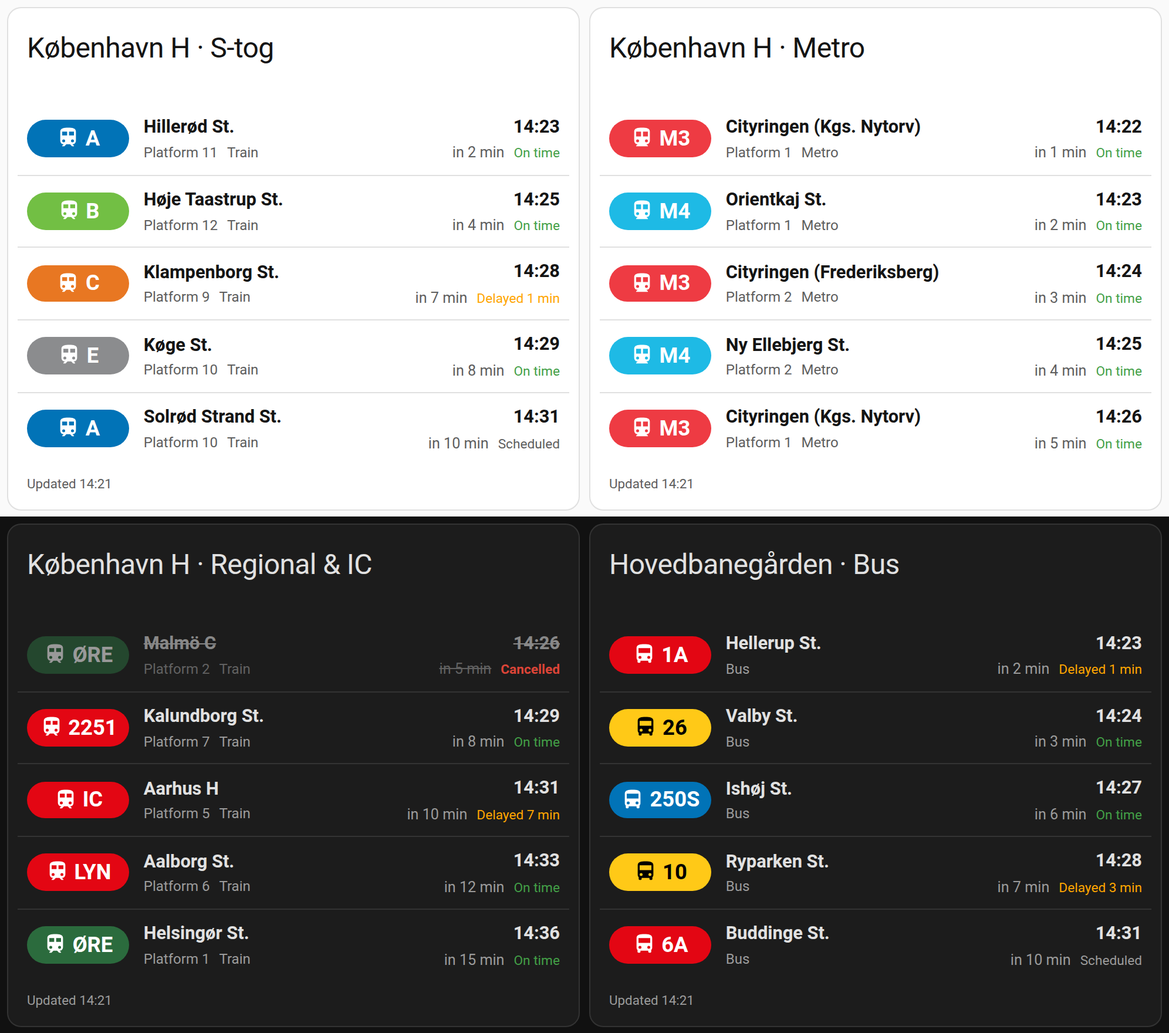
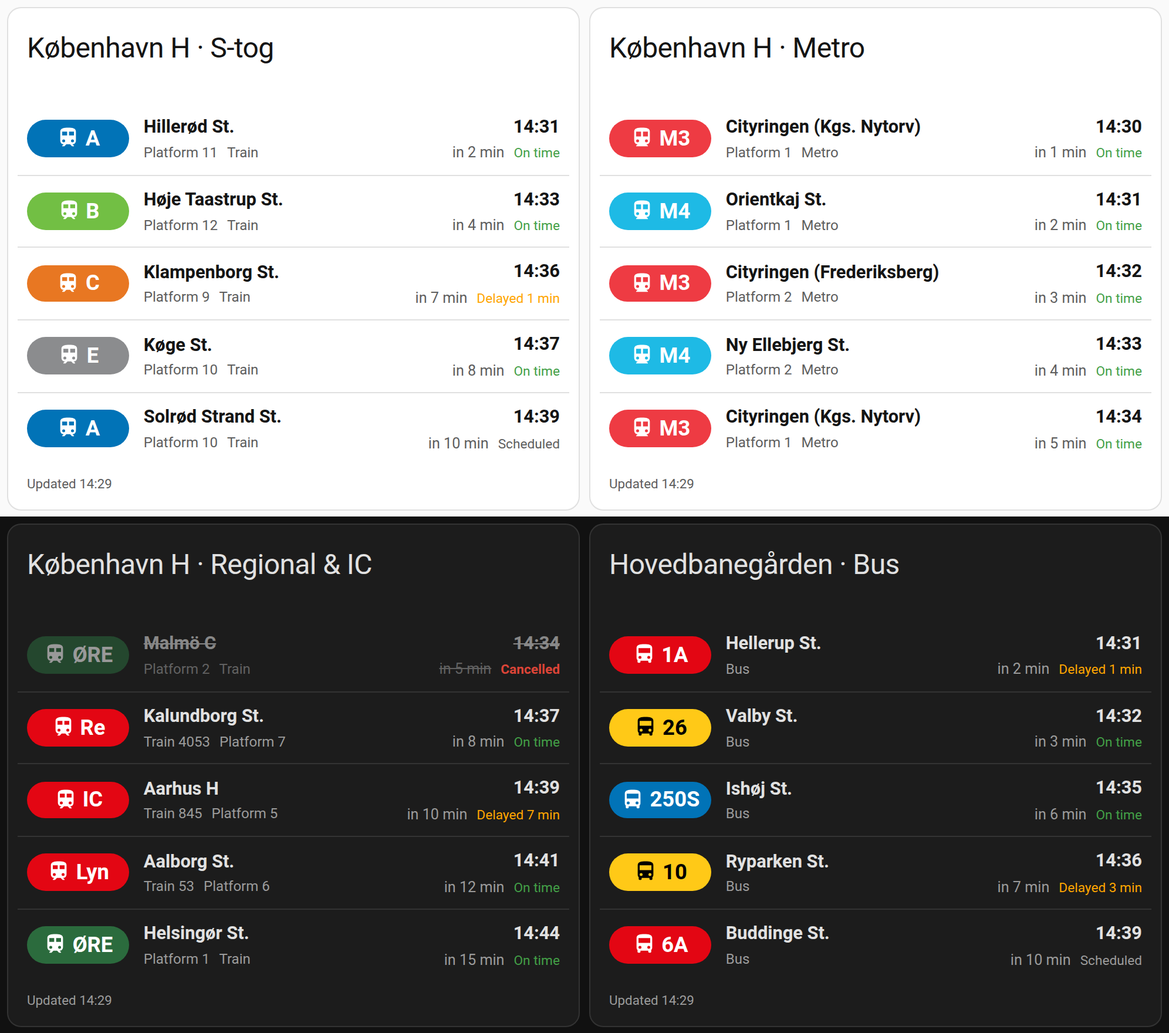
feat: show train category in badge and train number in info line
Regional and long-distance trains carry a train number instead of a line
(flagged by the API with lineHidden). Show the category (Re, IC, Lyn) in the
badge and "Train 52257" next to the platform, so stopping and fast services
can be told apart. Departures without the flag (S-tog, metro, buses) are
unchanged; tests cover both. Re now gets DSB red like IC and Lyn.

diff --git a/dist/rejseplanen-timetable-card.js b/dist/rejseplanen-timetable-card.js
@@ -42,7 +42,7 @@ super(...arguments),this.renderOptions={host:this},this._$Do=void 0}createRender
 * @license
 * Copyright 2017 Google LLC
 * SPDX-License-Identifier: BSD-3-Clause
-*/function Te(e){return we({...e,state:!0,attribute:!1})}var W={card:{title:`Rejseplanen Timetable`},error:{entity_not_found:`Entity not found: {entity}`,xml_format:`The sensor returns XML data. Add format=json to the Rejseplanen API URL.`},empty:{no_upcoming:`No upcoming departures`},label:{platform:`Platform {platform}`,stand:`Stand {platform}`,bay:`Bay {platform}`,now:`Now`,in_minutes:`in {minutes} min`,updated:`Updated {time}`,mode_bus:`Bus`,mode_metro:`Metro`,mode_train:`Train`,mode_tram:`Tram`,mode_taxi:`Taxi`,mode_boat:`Boat`},status:{cancelled:`Cancelled`,delayed:`Delayed {minutes} min`,on_time:`On time`,scheduled:`Scheduled`},editor:{sensor_entity:`Sensor entity`,show_heading:`Show heading (friendly name)`,max_items:`Max items`,section_general:`Card options`,help_sensor:`Select the Rejseplanen REST sensor (with a Departure attribute).`,help_show_heading:`Show the sensor's friendly name as the card heading.`,help_max_items:`Maximum number of departures to display.`}},Ee={da:{card:{title:`Rejseplanen Afgangstavle`},error:{entity_not_found:`Entitet ikke fundet: {entity}`,xml_format:`Sensoren returnerer XML-data. Tilføj format=json til Rejseplanen API-URL'en.`},empty:{no_upcoming:`Ingen kommende afgange`},label:{platform:`Perron {platform}`,stand:`Stoppested {platform}`,bay:`Kaj {platform}`,now:`Nu`,in_minutes:`om {minutes} min`,updated:`Opdateret {time}`,mode_bus:`Bus`,mode_metro:`Metro`,mode_train:`Tog`,mode_tram:`Letbane`,mode_taxi:`Taxa`,mode_boat:`Færge`},status:{cancelled:`Aflyst`,delayed:`Forsinket {minutes} min`,on_time:`Til tiden`,scheduled:`Planlagt`},editor:{sensor_entity:`Sensor entitet`,show_heading:`Vis overskrift (venligt navn)`,max_items:`Maks. antal`,section_general:`Kort indstillinger`,help_sensor:`Vælg Rejseplanen REST-sensoren (med attributten Departure).`,help_show_heading:`Vis sensorens venlige navn som kortets overskrift.`,help_max_items:`Maksimalt antal afgange der skal vises.`}},sv:{card:{title:`Rejseplanen Tidtabell`},error:{entity_not_found:`Enheten hittades inte: {entity}`,xml_format:`Sensorn returnerar XML-data. Lägg till format=json i Rejseplanen API-URL:en.`},empty:{no_upcoming:`Inga kommande avgångar`},label:{platform:`Plattform {platform}`,stand:`Läge {platform}`,bay:`Brygga {platform}`,now:`Nu`,in_minutes:`om {minutes} min`,updated:`Uppdaterad {time}`,mode_bus:`Buss`,mode_metro:`T-bana`,mode_train:`Tåg`,mode_tram:`Spårvagn`,mode_taxi:`Taxi`,mode_boat:`Båt`},status:{cancelled:`Inställd`,delayed:`Försenad {minutes} min`,on_time:`I tid`,scheduled:`Planerad`},editor:{sensor_entity:`Sensornamn`,show_heading:`Visa rubrik (visningsnamn)`,max_items:`Max antal`,section_general:`Kortalternativ`,help_sensor:`Välj Rejseplanen REST-sensorn (med attributet Departure).`,help_show_heading:`Visa sensorns visningsnamn som kortets rubrik.`,help_max_items:`Maximalt antal avgångar att visa.`}},en:W};function De(e,t){let n=t.split(`.`).reduce((e,t)=>e?e[t]:void 0,e);return typeof n==`string`?n:void 0}function Oe(e,t,n){let r=De(Ee[String(e?.locale?.language||e?.language||`en`).toLowerCase().slice(0,2)]??W,t)??De(W,t)??t;return n?Object.entries(n).reduce((e,[t,n])=>e.split(`{${t}}`).join(String(n)),r):r}function G(e,t,n,r){var i=arguments.length,a=i<3?t:r===null?r=Object.getOwnPropertyDescriptor(t,n):r,o;if(typeof Reflect==`object`&&typeof Reflect.decorate==`function`)a=Reflect.decorate(e,t,n,r);else for(var s=e.length-1;s>=0;s--)(o=e[s])&&(a=(i<3?o(a):i>3?o(t,n,a):o(t,n))||a);return i>3&&a&&Object.defineProperty(t,n,a),a}var ke,K=class extends U{setConfig(e){this._config={show_name:!0,max_items:5,...e}}_valueChanged(e){this._config||(this._config={type:`rejseplanen-timetable-card`,entity:``,show_name:!0,max_items:5});let t=e.currentTarget,n=e.detail,r={...this._config},i=t?.configValue??t?.dataset?.configValue;if(i){let e=n?.value??t.value??t.checked;if(t.type===`number`||t.inputMode===`numeric`||i===`max_items`){let t=Number(e);Number.isNaN(t)||(e=t)}t.type===`checkbox`?r[i]=t.checked:e!==void 0&&(r[i]=e)}JSON.stringify(r)!==JSON.stringify(this._config)&&(this._config=r,this.dispatchEvent(new CustomEvent(`config-changed`,{detail:{config:r}})))}render(){let e=(e,t)=>Oe(this.hass,e,t),t=!!customElements.get(`ha-entity-picker`)&&!!this.hass,n=!!customElements.get(`ha-switch`),r=!!customElements.get(`ha-textfield`),i=!!customElements.get(`ha-form`),a={entity:this._config?.entity??``,show_name:this._config?.show_name!==!1,max_items:this._config?.max_items??5};if(i){let t=[{name:`entity`,selector:{entity:{domain:`sensor`}}},{name:`show_name`,selector:{boolean:{}}},{name:`max_items`,selector:{number:{min:1,max:20,mode:`box`}}}],n={entity:a.entity,show_name:a.show_name,max_items:a.max_items};return N`
+*/function Te(e){return we({...e,state:!0,attribute:!1})}var W={card:{title:`Rejseplanen Timetable`},error:{entity_not_found:`Entity not found: {entity}`,xml_format:`The sensor returns XML data. Add format=json to the Rejseplanen API URL.`},empty:{no_upcoming:`No upcoming departures`},label:{platform:`Platform {platform}`,stand:`Stand {platform}`,bay:`Bay {platform}`,now:`Now`,in_minutes:`in {minutes} min`,updated:`Updated {time}`,mode_bus:`Bus`,mode_metro:`Metro`,mode_train:`Train`,mode_tram:`Tram`,mode_taxi:`Taxi`,mode_boat:`Boat`,train_number:`Train {number}`},status:{cancelled:`Cancelled`,delayed:`Delayed {minutes} min`,on_time:`On time`,scheduled:`Scheduled`},editor:{sensor_entity:`Sensor entity`,show_heading:`Show heading (friendly name)`,max_items:`Max items`,section_general:`Card options`,help_sensor:`Select the Rejseplanen REST sensor (with a Departure attribute).`,help_show_heading:`Show the sensor's friendly name as the card heading.`,help_max_items:`Maximum number of departures to display.`}},Ee={da:{card:{title:`Rejseplanen Afgangstavle`},error:{entity_not_found:`Entitet ikke fundet: {entity}`,xml_format:`Sensoren returnerer XML-data. Tilføj format=json til Rejseplanen API-URL'en.`},empty:{no_upcoming:`Ingen kommende afgange`},label:{platform:`Perron {platform}`,stand:`Stoppested {platform}`,bay:`Kaj {platform}`,now:`Nu`,in_minutes:`om {minutes} min`,updated:`Opdateret {time}`,mode_bus:`Bus`,mode_metro:`Metro`,mode_train:`Tog`,mode_tram:`Letbane`,mode_taxi:`Taxa`,mode_boat:`Færge`,train_number:`Tog {number}`},status:{cancelled:`Aflyst`,delayed:`Forsinket {minutes} min`,on_time:`Til tiden`,scheduled:`Planlagt`},editor:{sensor_entity:`Sensor entitet`,show_heading:`Vis overskrift (venligt navn)`,max_items:`Maks. antal`,section_general:`Kort indstillinger`,help_sensor:`Vælg Rejseplanen REST-sensoren (med attributten Departure).`,help_show_heading:`Vis sensorens venlige navn som kortets overskrift.`,help_max_items:`Maksimalt antal afgange der skal vises.`}},sv:{card:{title:`Rejseplanen Tidtabell`},error:{entity_not_found:`Enheten hittades inte: {entity}`,xml_format:`Sensorn returnerar XML-data. Lägg till format=json i Rejseplanen API-URL:en.`},empty:{no_upcoming:`Inga kommande avgångar`},label:{platform:`Plattform {platform}`,stand:`Läge {platform}`,bay:`Brygga {platform}`,now:`Nu`,in_minutes:`om {minutes} min`,updated:`Uppdaterad {time}`,mode_bus:`Buss`,mode_metro:`T-bana`,mode_train:`Tåg`,mode_tram:`Spårvagn`,mode_taxi:`Taxi`,mode_boat:`Båt`,train_number:`Tåg {number}`},status:{cancelled:`Inställd`,delayed:`Försenad {minutes} min`,on_time:`I tid`,scheduled:`Planerad`},editor:{sensor_entity:`Sensornamn`,show_heading:`Visa rubrik (visningsnamn)`,max_items:`Max antal`,section_general:`Kortalternativ`,help_sensor:`Välj Rejseplanen REST-sensorn (med attributet Departure).`,help_show_heading:`Visa sensorns visningsnamn som kortets rubrik.`,help_max_items:`Maximalt antal avgångar att visa.`}},en:W};function De(e,t){let n=t.split(`.`).reduce((e,t)=>e?e[t]:void 0,e);return typeof n==`string`?n:void 0}function Oe(e,t,n){let r=De(Ee[String(e?.locale?.language||e?.language||`en`).toLowerCase().slice(0,2)]??W,t)??De(W,t)??t;return n?Object.entries(n).reduce((e,[t,n])=>e.split(`{${t}}`).join(String(n)),r):r}function G(e,t,n,r){var i=arguments.length,a=i<3?t:r===null?r=Object.getOwnPropertyDescriptor(t,n):r,o;if(typeof Reflect==`object`&&typeof Reflect.decorate==`function`)a=Reflect.decorate(e,t,n,r);else for(var s=e.length-1;s>=0;s--)(o=e[s])&&(a=(i<3?o(a):i>3?o(t,n,a):o(t,n))||a);return i>3&&a&&Object.defineProperty(t,n,a),a}var ke,K=class extends U{setConfig(e){this._config={show_name:!0,max_items:5,...e}}_valueChanged(e){this._config||(this._config={type:`rejseplanen-timetable-card`,entity:``,show_name:!0,max_items:5});let t=e.currentTarget,n=e.detail,r={...this._config},i=t?.configValue??t?.dataset?.configValue;if(i){let e=n?.value??t.value??t.checked;if(t.type===`number`||t.inputMode===`numeric`||i===`max_items`){let t=Number(e);Number.isNaN(t)||(e=t)}t.type===`checkbox`?r[i]=t.checked:e!==void 0&&(r[i]=e)}JSON.stringify(r)!==JSON.stringify(this._config)&&(this._config=r,this.dispatchEvent(new CustomEvent(`config-changed`,{detail:{config:r}})))}render(){let e=(e,t)=>Oe(this.hass,e,t),t=!!customElements.get(`ha-entity-picker`)&&!!this.hass,n=!!customElements.get(`ha-switch`),r=!!customElements.get(`ha-textfield`),i=!!customElements.get(`ha-form`),a={entity:this._config?.entity??``,show_name:this._config?.show_name!==!1,max_items:this._config?.max_items??5};if(i){let t=[{name:`entity`,selector:{entity:{domain:`sensor`}}},{name:`show_name`,selector:{boolean:{}}},{name:`max_items`,selector:{number:{min:1,max:20,mode:`box`}}}],n={entity:a.entity,show_name:a.show_name,max_items:a.max_items};return N`
         <ha-form
           .hass=${this.hass}
           .data=${n}
@@ -105,9 +105,9 @@ super(...arguments),this.renderOptions={host:this},this._$Do=void 0}createRender
   .card-config { display: grid; gap: 16px; }
   .lbl { display: grid; gap: 6px; font: inherit; color: var(--primary-text-color); }
   input[type="text"], input[type="number"] { padding: 8px; border-radius: 6px; border: 1px solid var(--divider-color); width: 100%; background: var(--card-background-color); color: var(--primary-text-color); }
-  `,G([we({attribute:!1})],K.prototype,`hass`,void 0),G([Te()],K.prototype,`_config`,void 0),customElements.get(`rejseplanen-timetable-card-editor`)||customElements.define(`rejseplanen-timetable-card-editor`,K);function Ae(e,t){if(!e||!t)return;let n=/^(\d{4})-(\d{2})-(\d{2})$/.exec(e),r=/^(\d{2}):(\d{2})(?::(\d{2}))?$/.exec(t);if(n&&r)return new Date(+n[1],n[2]-1,+n[3],+r[1],+r[2],r[3]?+r[3]:0)}function je(e,t){let n=e=>(parseInt(e.substring(0,2))||0)*60+(parseInt(e.substring(3,5))||0),r=n(t)-n(e);return r<-720&&(r+=1440),r>720&&(r-=1440),r}function q(e){return e.toString().padStart(2,`0`)}function Me(e){let t=(e?.catOut||``).toString(),n=(e?.catOutL||``).toString(),r=(e?.icon?.res||``).toString(),i=t.toUpperCase();return t===`MET`||n.includes(`Metro`)||r===`prod_sub`?`metro`:n.includes(`Tog`)||n.includes(`Train`)||t.includes(`S-Tog`)||n.includes(`Lokalbane`)||n.includes(`Regional`)||n.includes(`InterCity`)||[`S`,`RE`,`REG`,`IC`,`ICL`,`LYN`,`LOK`,`ØRE`].includes(i)||[`prod_comm`,`prod_reg`,`prod_long`,`prod_loc`,`prod_ic`].includes(r)?`train`:n.includes(`Tram`)||n.includes(`Letbane`)||r===`prod_tram`?`tram`:n.includes(`Ferry`)||n.includes(`Boat`)||n.includes(`Færge`)||r===`prod_ship`?`boat`:`bus`}function Ne(e){return!!(e.rtTime||e.prognosisType||e.rtTrack||e.rtPlatform)}function Pe(e,t=new Date){if(!e)return null;let n=e.ProductAtStop||{},r=(e.time||``).toString(),i=(e.rtTime||``).toString(),a=i||r,o=Ae(e.date,r),s=i?Ae(e.rtDate||e.date,i):void 0,c=s??o,l=new Date(t);l.setSeconds(0,0);let u=null;c?u=Math.floor((c.getTime()-l.getTime())/6e4):a&&(u=je(`${q(t.getHours())}:${q(t.getMinutes())}`,a));let d=0;o&&s?d=Math.round((s.getTime()-o.getTime())/6e4):r&&i&&(d=je(r,i));let f=``;e.rtTrack?f=e.rtTrack.toString():e.track?f=e.track.toString():e.rtPlatform?.text?f=e.rtPlatform.text.toString():e.platform?.text&&(f=e.platform.text.toString());let p=r.substring(0,5),m=i?i.substring(0,5):p;return{line:n.displayNumber||e.name||``,destination:e.direction||``,scheduled_time:p,expected_time:m,time_formatted:m,minutes_until:u,transport_mode:Me(n),real_time:Ne(e),delay_minutes:d,canceled:e.cancelled===!0||e.cancelled===`true`,platform:f,station:e.stop||``}}function Fe(e){let t=e.attributes||{};if(`destination`in t||`scheduled_time`in t)return{line:t.line,destination:t.destination,scheduled_time:t.scheduled_time,expected_time:t.expected_time??t.scheduled_time,time_formatted:t.time_formatted,minutes_until:Number(e.state),transport_mode:t.transport_mode,real_time:t.real_time,delay:t.delay,delay_minutes:t.delay_minutes,canceled:t.canceled,platform:t.platform,agency:t.agency,station:t.station}}function J(e){if(Array.isArray(e))return e;if(e&&typeof e==`object`)return[e]}function Ie(e){return[e?.attributes?.Departure,e?.attributes?.DepartureBoard?.Departure].some(e=>{let t=J(e)?.[0];return!!t&&typeof t==`object`&&Object.keys(t).some(e=>e.startsWith(`@`))})}function Le(e,t=new Date){if(!e)return[];let n,r=J(e.attributes?.upcoming),i=J(e.attributes?.Departure);if(r&&r.length>0)n=`line`in r[0]||`destination`in r[0]?r:r.map(e=>Pe(e,t)).filter(e=>e!==null);else if(i)n=i.map(e=>Pe(e,t)).filter(e=>e!==null);else{let t=Fe(e);n=t?[t]:[]}let a=n.filter(e=>!Re(e.minutes_until)||e.minutes_until>=0),o=e=>Re(e.minutes_until)?e.minutes_until:1/0;return a.sort((e,t)=>o(e)===o(t)?0:o(e)<o(t)?-1:1)}function Re(e){return typeof e==`number`&&!Number.isNaN(e)}function Y(e,t){return`${q(e)}:${q(t)}`}function ze(e){let t=/^(\d{1,2}):(\d{2})/.exec(e);return t?Y(+t[1],+t[2]):e}function Be(e){let t=e??``;return t.length<=4?`normal`:t.length<=6?`medium`:t.split(` `).some(e=>e.length>8)?`xlong`:`long`}var Ve={M1:`#0A9A48`,M2:`#FFC917`,M3:`#EE3B43`,M4:`#1EBAE5`},He={A:`#0173B7`,B:`#72BF44`,BX:`#72BF44`,C:`#E87722`,E:`#8B8C8E`,F:`#FFC917`,H:`#E30613`},X=`#E30613`,Ue=[`IC`,`LYN`,`ICL`,`REG`],We=[`ØRE`,`ØRESUND`],Ge=[`HORNBÆKBANEN`,`LILLE NORD`,`FREDERIKSVÆRKBANEN`,`GRIBSKOVBANEN`,`NÆRUMBANEN`,`ØSTBANEN`,`ODSHERREDSBANEN`,`TØLLØSEBANEN`],Ke=[`1A`,`2A`,`3A`,`4A`,`5A`,`6A`,`7A`,`9A`],qe=new Set([`#FFC917`]);function Z(e){return{bg:e,color:qe.has(e)?`#000`:`#fff`}}function Je(e,t){if(!e)return;let n=String(e).toUpperCase();if(Ve[n])return Z(Ve[n]);if(He[n])return Z(He[n]);if(Ue.includes(n))return Z(X);if(We.includes(n))return Z(`#2B6B3D`);if(Ge.includes(n))return Z(`#1073A5`);if(Ke.includes(n))return Z(X);if(n.endsWith(`S`)&&n.length<=4)return Z(`#0173B7`);if(n.startsWith(`E`))return Z(`#5A5A5A`);if(n.startsWith(`N`)||n.endsWith(`N`))return Z(`#003366`);if(t===`train`&&/^\d+$/.test(n))return Z(X);if(/^\d+[A-Z]?$/.test(n))return Z(`#FFC917`)}var Ye,Q=`rejseplanen-timetable-card`,Xe=15e3,$=class extends U{constructor(...e){super(...e),this._overlayHeight=0,this._overlayTop=0}set hass(e){this._hass=e,this.requestUpdate()}get hass(){return this._hass}connectedCallback(){super.connectedCallback(),this._tick=setInterval(()=>this.requestUpdate(),Xe)}disconnectedCallback(){super.disconnectedCallback(),clearInterval(this._tick),this._tick=void 0}static getStubConfig(){return{show_name:!0,max_items:5}}static getConfigElement(){return document.createElement(`rejseplanen-timetable-card-editor`)}setConfig(e){if(!e||!e.entity)throw Error(`Required property missing: entity`);this._config={show_name:!0,max_items:5,...e,type:Q}}getCardSize(){let e=this._getDepartures().length||1;return 1+Math.min(e,this._config?.max_items??5)}_getEntity(){let e=this._config?.entity;if(e)return this.hass?.states?.[e]}_t(e,t){return Oe(this.hass,e,t)}_getDepartures(){return Le(this._getEntity())}_modeLabel(e){if(!e)return;let t=`label.mode_${String(e).toLowerCase()}`,n=this._t(t);return n===t?e:n}_iconForMode(e){if(e)switch(String(e).toLowerCase()){case`bus`:return`mdi:bus`;case`metro`:return`mdi:subway-variant`;case`train`:return`mdi:train`;case`tram`:return`mdi:tram`;case`taxi`:return`mdi:taxi`;case`boat`:return`mdi:ferry`;default:return}}_platformLabelFor(e){let t=e?.platform;if(t==null||t===``)return;let n=String(e?.transport_mode||``).toLowerCase(),r=n===`bus`||n===`taxi`||n===`tram`?`label.stand`:n===`boat`?`label.bay`:`label.platform`;return this._t(r,{platform:t})}_statusFor(e){if(e.canceled)return{label:this._t(`status.cancelled`),badge:`cancel`};let t=typeof e.delay_minutes==`number`?e.delay_minutes:typeof e.delay==`number`?Math.round(e.delay/60):0;return t>0?{label:this._t(`status.delayed`,{minutes:t}),badge:`delay`}:e.real_time===!1?{label:this._t(`status.scheduled`),badge:`scheduled`}:{label:this._t(`status.on_time`),badge:`ok`}}_formatTimeString(e){let t=e.time_formatted||e.expected_time||e.scheduled_time;if(!t)return``;if(/^\d{1,2}:\d{2}/.test(t))return ze(t);let n=new Date(t);return Number.isNaN(n.getTime())?String(t):Y(n.getHours(),n.getMinutes())}_formatUpdated(e){let t=new Date(e);return Number.isNaN(t.getTime())?e:Y(t.getHours(),t.getMinutes())}_openMoreInfo(){let e=this._config?.entity;e&&this.dispatchEvent(new CustomEvent(`hass-more-info`,{bubbles:!0,composed:!0,detail:{entityId:e}}))}_onKeyActivate(e){(e.key===`Enter`||e.key===` `)&&(e.preventDefault(),this._openMoreInfo())}updated(){try{let e=this.renderRoot.querySelector(`.list`),t=this.renderRoot.querySelector(`.card-body`),n=this.renderRoot.querySelector(`ha-card`);if(!e||!t||!n)return;let r=e.getBoundingClientRect(),i=t.getBoundingClientRect(),a=n.getBoundingClientRect(),o=Math.max(0,i.top-a.top),s=Math.max(0,r.top-i.top),c=Math.max(0,o+s-2),l=-o;(c!==this._overlayHeight||l!==this._overlayTop)&&(this._overlayHeight=c,this._overlayTop=l,this.requestUpdate())}catch{}}render(){let e=this._getEntity();if(!this._config)return F;if(!e)return N`<ha-card header=${this._t(`card.title`)}>
+  `,G([we({attribute:!1})],K.prototype,`hass`,void 0),G([Te()],K.prototype,`_config`,void 0),customElements.get(`rejseplanen-timetable-card-editor`)||customElements.define(`rejseplanen-timetable-card-editor`,K);function Ae(e,t){if(!e||!t)return;let n=/^(\d{4})-(\d{2})-(\d{2})$/.exec(e),r=/^(\d{2}):(\d{2})(?::(\d{2}))?$/.exec(t);if(n&&r)return new Date(+n[1],n[2]-1,+n[3],+r[1],+r[2],r[3]?+r[3]:0)}function je(e,t){let n=e=>(parseInt(e.substring(0,2))||0)*60+(parseInt(e.substring(3,5))||0),r=n(t)-n(e);return r<-720&&(r+=1440),r>720&&(r-=1440),r}function q(e){return e.toString().padStart(2,`0`)}function Me(e){let t=(e?.catOut||``).toString(),n=(e?.catOutL||``).toString(),r=(e?.icon?.res||``).toString(),i=t.toUpperCase();return t===`MET`||n.includes(`Metro`)||r===`prod_sub`?`metro`:n.includes(`Tog`)||n.includes(`Train`)||t.includes(`S-Tog`)||n.includes(`Lokalbane`)||n.includes(`Regional`)||n.includes(`InterCity`)||[`S`,`RE`,`REG`,`IC`,`ICL`,`LYN`,`LOK`,`ØRE`].includes(i)||[`prod_comm`,`prod_reg`,`prod_long`,`prod_loc`,`prod_ic`].includes(r)?`train`:n.includes(`Tram`)||n.includes(`Letbane`)||r===`prod_tram`?`tram`:n.includes(`Ferry`)||n.includes(`Boat`)||n.includes(`Færge`)||r===`prod_ship`?`boat`:`bus`}function Ne(e,t){let n=(e.num||e.displayNumber||``).toString(),r=(e.catOut||``).toString();return(e.lineHidden===!0||e.lineHidden===`true`)&&r&&n?{line:r,train_number:n}:{line:e.displayNumber||t.name||``}}function Pe(e){return!!(e.rtTime||e.prognosisType||e.rtTrack||e.rtPlatform)}function Fe(e,t=new Date){if(!e)return null;let n=e.ProductAtStop||{},r=(e.time||``).toString(),i=(e.rtTime||``).toString(),a=i||r,o=Ae(e.date,r),s=i?Ae(e.rtDate||e.date,i):void 0,c=s??o,l=new Date(t);l.setSeconds(0,0);let u=null;c?u=Math.floor((c.getTime()-l.getTime())/6e4):a&&(u=je(`${q(t.getHours())}:${q(t.getMinutes())}`,a));let d=0;o&&s?d=Math.round((s.getTime()-o.getTime())/6e4):r&&i&&(d=je(r,i));let f=``;e.rtTrack?f=e.rtTrack.toString():e.track?f=e.track.toString():e.rtPlatform?.text?f=e.rtPlatform.text.toString():e.platform?.text&&(f=e.platform.text.toString());let p=r.substring(0,5),m=i?i.substring(0,5):p;return{...Ne(n,e),destination:e.direction||``,scheduled_time:p,expected_time:m,time_formatted:m,minutes_until:u,transport_mode:Me(n),real_time:Pe(e),delay_minutes:d,canceled:e.cancelled===!0||e.cancelled===`true`,platform:f,station:e.stop||``}}function Ie(e){let t=e.attributes||{};if(`destination`in t||`scheduled_time`in t)return{line:t.line,destination:t.destination,scheduled_time:t.scheduled_time,expected_time:t.expected_time??t.scheduled_time,time_formatted:t.time_formatted,minutes_until:Number(e.state),transport_mode:t.transport_mode,real_time:t.real_time,delay:t.delay,delay_minutes:t.delay_minutes,canceled:t.canceled,platform:t.platform,agency:t.agency,station:t.station}}function J(e){if(Array.isArray(e))return e;if(e&&typeof e==`object`)return[e]}function Le(e){return[e?.attributes?.Departure,e?.attributes?.DepartureBoard?.Departure].some(e=>{let t=J(e)?.[0];return!!t&&typeof t==`object`&&Object.keys(t).some(e=>e.startsWith(`@`))})}function Re(e,t=new Date){if(!e)return[];let n,r=J(e.attributes?.upcoming),i=J(e.attributes?.Departure);if(r&&r.length>0)n=`line`in r[0]||`destination`in r[0]?r:r.map(e=>Fe(e,t)).filter(e=>e!==null);else if(i)n=i.map(e=>Fe(e,t)).filter(e=>e!==null);else{let t=Ie(e);n=t?[t]:[]}let a=n.filter(e=>!ze(e.minutes_until)||e.minutes_until>=0),o=e=>ze(e.minutes_until)?e.minutes_until:1/0;return a.sort((e,t)=>o(e)===o(t)?0:o(e)<o(t)?-1:1)}function ze(e){return typeof e==`number`&&!Number.isNaN(e)}function Y(e,t){return`${q(e)}:${q(t)}`}function Be(e){let t=/^(\d{1,2}):(\d{2})/.exec(e);return t?Y(+t[1],+t[2]):e}function Ve(e){let t=e??``;return t.length<=4?`normal`:t.length<=6?`medium`:t.split(` `).some(e=>e.length>8)?`xlong`:`long`}var He={M1:`#0A9A48`,M2:`#FFC917`,M3:`#EE3B43`,M4:`#1EBAE5`},Ue={A:`#0173B7`,B:`#72BF44`,BX:`#72BF44`,C:`#E87722`,E:`#8B8C8E`,F:`#FFC917`,H:`#E30613`},X=`#E30613`,We=[`IC`,`LYN`,`ICL`,`RE`,`REG`],Ge=[`ØRE`,`ØRESUND`],Ke=[`HORNBÆKBANEN`,`LILLE NORD`,`FREDERIKSVÆRKBANEN`,`GRIBSKOVBANEN`,`NÆRUMBANEN`,`ØSTBANEN`,`ODSHERREDSBANEN`,`TØLLØSEBANEN`],qe=[`1A`,`2A`,`3A`,`4A`,`5A`,`6A`,`7A`,`9A`],Je=new Set([`#FFC917`]);function Z(e){return{bg:e,color:Je.has(e)?`#000`:`#fff`}}function Ye(e,t){if(!e)return;let n=String(e).toUpperCase();if(He[n])return Z(He[n]);if(Ue[n])return Z(Ue[n]);if(We.includes(n))return Z(X);if(Ge.includes(n))return Z(`#2B6B3D`);if(Ke.includes(n))return Z(`#1073A5`);if(qe.includes(n))return Z(X);if(n.endsWith(`S`)&&n.length<=4)return Z(`#0173B7`);if(n.startsWith(`E`))return Z(`#5A5A5A`);if(n.startsWith(`N`)||n.endsWith(`N`))return Z(`#003366`);if(t===`train`&&/^\d+$/.test(n))return Z(X);if(/^\d+[A-Z]?$/.test(n))return Z(`#FFC917`)}var Xe,Q=`rejseplanen-timetable-card`,Ze=15e3,$=class extends U{constructor(...e){super(...e),this._overlayHeight=0,this._overlayTop=0}set hass(e){this._hass=e,this.requestUpdate()}get hass(){return this._hass}connectedCallback(){super.connectedCallback(),this._tick=setInterval(()=>this.requestUpdate(),Ze)}disconnectedCallback(){super.disconnectedCallback(),clearInterval(this._tick),this._tick=void 0}static getStubConfig(){return{show_name:!0,max_items:5}}static getConfigElement(){return document.createElement(`rejseplanen-timetable-card-editor`)}setConfig(e){if(!e||!e.entity)throw Error(`Required property missing: entity`);this._config={show_name:!0,max_items:5,...e,type:Q}}getCardSize(){let e=this._getDepartures().length||1;return 1+Math.min(e,this._config?.max_items??5)}_getEntity(){let e=this._config?.entity;if(e)return this.hass?.states?.[e]}_t(e,t){return Oe(this.hass,e,t)}_getDepartures(){return Re(this._getEntity())}_modeLabel(e){if(!e)return;let t=`label.mode_${String(e).toLowerCase()}`,n=this._t(t);return n===t?e:n}_iconForMode(e){if(e)switch(String(e).toLowerCase()){case`bus`:return`mdi:bus`;case`metro`:return`mdi:subway-variant`;case`train`:return`mdi:train`;case`tram`:return`mdi:tram`;case`taxi`:return`mdi:taxi`;case`boat`:return`mdi:ferry`;default:return}}_platformLabelFor(e){let t=e?.platform;if(t==null||t===``)return;let n=String(e?.transport_mode||``).toLowerCase(),r=n===`bus`||n===`taxi`||n===`tram`?`label.stand`:n===`boat`?`label.bay`:`label.platform`;return this._t(r,{platform:t})}_statusFor(e){if(e.canceled)return{label:this._t(`status.cancelled`),badge:`cancel`};let t=typeof e.delay_minutes==`number`?e.delay_minutes:typeof e.delay==`number`?Math.round(e.delay/60):0;return t>0?{label:this._t(`status.delayed`,{minutes:t}),badge:`delay`}:e.real_time===!1?{label:this._t(`status.scheduled`),badge:`scheduled`}:{label:this._t(`status.on_time`),badge:`ok`}}_formatTimeString(e){let t=e.time_formatted||e.expected_time||e.scheduled_time;if(!t)return``;if(/^\d{1,2}:\d{2}/.test(t))return Be(t);let n=new Date(t);return Number.isNaN(n.getTime())?String(t):Y(n.getHours(),n.getMinutes())}_formatUpdated(e){let t=new Date(e);return Number.isNaN(t.getTime())?e:Y(t.getHours(),t.getMinutes())}_openMoreInfo(){let e=this._config?.entity;e&&this.dispatchEvent(new CustomEvent(`hass-more-info`,{bubbles:!0,composed:!0,detail:{entityId:e}}))}_onKeyActivate(e){(e.key===`Enter`||e.key===` `)&&(e.preventDefault(),this._openMoreInfo())}updated(){try{let e=this.renderRoot.querySelector(`.list`),t=this.renderRoot.querySelector(`.card-body`),n=this.renderRoot.querySelector(`ha-card`);if(!e||!t||!n)return;let r=e.getBoundingClientRect(),i=t.getBoundingClientRect(),a=n.getBoundingClientRect(),o=Math.max(0,i.top-a.top),s=Math.max(0,r.top-i.top),c=Math.max(0,o+s-2),l=-o;(c!==this._overlayHeight||l!==this._overlayTop)&&(this._overlayHeight=c,this._overlayTop=l,this.requestUpdate())}catch{}}render(){let e=this._getEntity();if(!this._config)return F;if(!e)return N`<ha-card header=${this._t(`card.title`)}>
         <div class="content error">${this._t(`error.entity_not_found`,{entity:this._config.entity})}</div>
-      </ha-card>`;let t=this._config.show_name!==!1,n=t?e.attributes?.friendly_name||e.entity_id:void 0,r=this._getDepartures().slice(0,this._config.max_items??5),i=Ie(e),a=e.attributes?.last_update??e.last_updated,o=new Set(r.map(e=>e.station||``)).size>1;return N`
+      </ha-card>`;let t=this._config.show_name!==!1,n=t?e.attributes?.friendly_name||e.entity_id:void 0,r=this._getDepartures().slice(0,this._config.max_items??5),i=Le(e),a=e.attributes?.last_update??e.last_updated,o=new Set(r.map(e=>e.station||``)).size>1;return N`
       <ha-card .header=${t?n??this._t(`card.title`):void 0}>
         <div class="card-body">
           ${t?N`<div
@@ -119,7 +119,7 @@ super(...arguments),this.renderOptions={host:this},this._$Do=void 0}createRender
                     @keydown=${e=>this._onKeyActivate(e)}
                   ></div>`:F}
         ${i?N`<div class="content error">${this._t(`error.xml_format`)}</div>`:r.length===0?N`<div class="content empty">${this._t(`empty.no_upcoming`)}</div>`:N`<div class="list" role="list">
-              ${r.map(e=>{let t=this._statusFor(e),n=this._formatTimeString(e),r=typeof e.minutes_until==`number`?e.minutes_until:void 0,i=this._modeLabel(e.transport_mode)??e.transport_mode,a=this._iconForMode(e.transport_mode),s=r===void 0?void 0:r===0?this._t(`label.now`):this._t(`label.in_minutes`,{minutes:r}),c=Je(e.line,e.transport_mode),l=c?`background: ${c.bg}; color: ${c.color};`:``,u=Be(e.line);return N`
+              ${r.map(e=>{let t=this._statusFor(e),n=this._formatTimeString(e),r=typeof e.minutes_until==`number`?e.minutes_until:void 0,i=this._modeLabel(e.transport_mode)??e.transport_mode,a=this._iconForMode(e.transport_mode),s=r===void 0?void 0:r===0?this._t(`label.now`):this._t(`label.in_minutes`,{minutes:r}),c=Ye(e.line,e.transport_mode),l=c?`background: ${c.bg}; color: ${c.color};`:``,u=Ve(e.line);return N`
                   <div class="row ${e.canceled?`cancelled`:``}" role="listitem">
                     <div class="line">
                       <span class="pill" role="button" tabindex="0"
@@ -133,8 +133,9 @@ super(...arguments),this.renderOptions={host:this},this._$Do=void 0}createRender
                       ${o&&e.station?N`<div class="station">${e.station}</div>`:F}
                       <div class="dest">${e.destination??``}</div>
                       <div class="meta">
+                        ${e.train_number?N`<span class="train-number">${this._t(`label.train_number`,{number:e.train_number})}</span>`:F}
                         ${this._platformLabelFor(e)?N`<span class="platform">${this._platformLabelFor(e)}</span>`:F}
-                        ${i?N`<span class="mode-text">${i}</span>`:F}
+                        ${i&&!e.train_number?N`<span class="mode-text">${i}</span>`:F}
                       </div>
                     </div>
                     <div class="right">
@@ -152,7 +153,7 @@ super(...arguments),this.renderOptions={host:this},this._$Do=void 0}createRender
         </div>
         </div>
       </ha-card>
-    `}};Ye=$,Ye.styles=o`
+    `}};Xe=$,Xe.styles=o`
     ha-card {
       --pill-bg: var(--primary-color);
       --ok: var(--success-color, #0b8457);

diff --git a/src/departures.ts b/src/departures.ts
@@ -27,6 +27,7 @@ export interface DepartureItem {
   platform?: string;
   agency?: string;
   station?: string;
+  train_number?: string;
 }
 
 export interface LineColor {
@@ -75,6 +76,18 @@ export function detectMode(pat: any): TransportMode {
   return 'bus';
 }
 
+// Regional and long-distance trains carry a train number instead of a line (e.g. "52257"),
+// which the API flags with lineHidden. Show the category ("Re", "IC") as the line and keep the
+// number separately. Everything without the flag (buses, S-tog, metro) is left untouched.
+function lineAndTrainNumber(pat: any, d: any): { line: string; train_number?: string } {
+  const number = (pat.num || pat.displayNumber || '').toString();
+  const category = (pat.catOut || '').toString();
+  if ((pat.lineHidden === true || pat.lineHidden === 'true') && category && number) {
+    return { line: category, train_number: number };
+  }
+  return { line: pat.displayNumber || d.name || '' };
+}
+
 // Rejseplanen omits rtTime when a departure runs on time, so rtTime alone misses on-time
 // trains. prognosisType (e.g. "PROGNOSED") and real-time platform fields also mean live data.
 function hasRealtime(d: any): boolean {
@@ -121,7 +134,7 @@ export function mapRejseplanenDeparture(d: any, now: Date = new Date()): Departu
   const expected = rt ? rt.substring(0, 5) : scheduled;
 
   return {
-    line: pat.displayNumber || d.name || '',
+    ...lineAndTrainNumber(pat, d),
     destination: d.direction || '',
     scheduled_time: scheduled,
     expected_time: expected,
@@ -228,7 +241,7 @@ const S_TRAIN: Record<string, string> = {
   A: '#0173B7', B: '#72BF44', BX: '#72BF44', C: '#E87722', E: '#8B8C8E', F: '#FFC917', H: '#E30613',
 };
 const DSB_RED = '#E30613';
-const DSB_LINES = ['IC', 'LYN', 'ICL', 'REG'];
+const DSB_LINES = ['IC', 'LYN', 'ICL', 'RE', 'REG'];
 const ORESUND = ['ØRE', 'ØRESUND'];
 const LOKALTOG = [
   'HORNBÆKBANEN', 'LILLE NORD', 'FREDERIKSVÆRKBANEN', 'GRIBSKOVBANEN', 'NÆRUMBANEN', 'ØSTBANEN',

diff --git a/tests/departures.test.ts b/tests/departures.test.ts
@@ -92,6 +92,29 @@ describe('mapRejseplanenDeparture', () => {
     expect(mapRejseplanenDeparture(kokkedal.Departure[1], new Date(2026, 9, 15, 14, 10))!.real_time).toBe(false);
   });
 
+  it('shows the category as line and keeps the train number for numbered trains', () => {
+    const item = mapRejseplanenDeparture(kokkedal.Departure[0], new Date(2026, 9, 15, 14, 10))!;
+    expect(item.line).toBe('Re');
+    expect(item.train_number).toBe('52257');
+    expect(getLineColor(item.line, item.transport_mode)?.bg).toBe('#E30613');
+  });
+
+  it('leaves lines without the lineHidden flag untouched', () => {
+    // S-tog, metro and buses carry a real line number; they must not be rewritten
+    const lines = fixture.Departure.map((d) => mapRejseplanenDeparture(d, NOW)!);
+    expect(lines.map((d) => d.line)).toEqual(['C', 'M2', 'B', 'IC', '150S']);
+    expect(lines.every((d) => d.train_number === undefined)).toBe(true);
+    // A train without the flag keeps its number as the line
+    expect(mapRejseplanenDeparture(kokkedal.Departure[1], NOW)!.line).toBe('52559');
+  });
+
+  it('keeps the number as line when a flagged departure has no category', () => {
+    const d = { ...kokkedal.Departure[0], ProductAtStop: { ...kokkedal.Departure[0].ProductAtStop, catOut: '' } };
+    const item = mapRejseplanenDeparture(d, NOW)!;
+    expect(item.line).toBe('52257');
+    expect(item.train_number).toBeUndefined();
+  });
+
   it('returns null for empty input', () => {
     expect(mapRejseplanenDeparture(null, NOW)).toBeNull();
   });

diff --git a/tests/card.test.ts b/tests/card.test.ts
@@ -93,6 +93,18 @@ describe('rejseplanen-timetable-card', () => {
     expect(status).toEqual(['Til tiden', 'Planlagt']);
   });
 
+  it('shows Re in the pill and the train number in the info line', async () => {
+    vi.setSystemTime(new Date(2026, 9, 15, 14, 10));
+    const root = await render(kokkedal);
+    const [re, plain] = [...root.querySelectorAll('.row')];
+    expect(re.querySelector('.pill-text')!.textContent).toBe('Re');
+    expect(re.querySelector('.train-number')!.textContent).toBe('Tog 52257');
+    expect(re.querySelector('.mode-text')).toBeNull();
+    expect(plain.querySelector('.pill-text')!.textContent).toBe('52559');
+    expect(plain.querySelector('.train-number')).toBeNull();
+    expect(plain.querySelector('.mode-text')!.textContent).toBe('Tog');
+  });
+
   it('marks cancelled departures so they can be struck through', async () => {
     const root = await render(fixture);
     const rows = [...root.querySelectorAll('.row')];

diff --git a/src/rejseplanen-timetable-card.ts b/src/rejseplanen-timetable-card.ts
@@ -273,8 +273,9 @@ export class RejseplanenTimetableCard extends LitElement {
                       ${showStation && d.station ? html`<div class="station">${d.station}</div>` : nothing}
                       <div class="dest">${d.destination ?? ''}</div>
                       <div class="meta">
+                        ${d.train_number ? html`<span class="train-number">${this._t('label.train_number', { number: d.train_number })}</span>` : nothing}
                         ${this._platformLabelFor(d) ? html`<span class="platform">${this._platformLabelFor(d)}</span>` : nothing}
-                        ${mode ? html`<span class="mode-text">${mode}</span>` : nothing}
+                        ${mode && !d.train_number ? html`<span class="mode-text">${mode}</span>` : nothing}
                       </div>
                     </div>
                     <div class="right">
